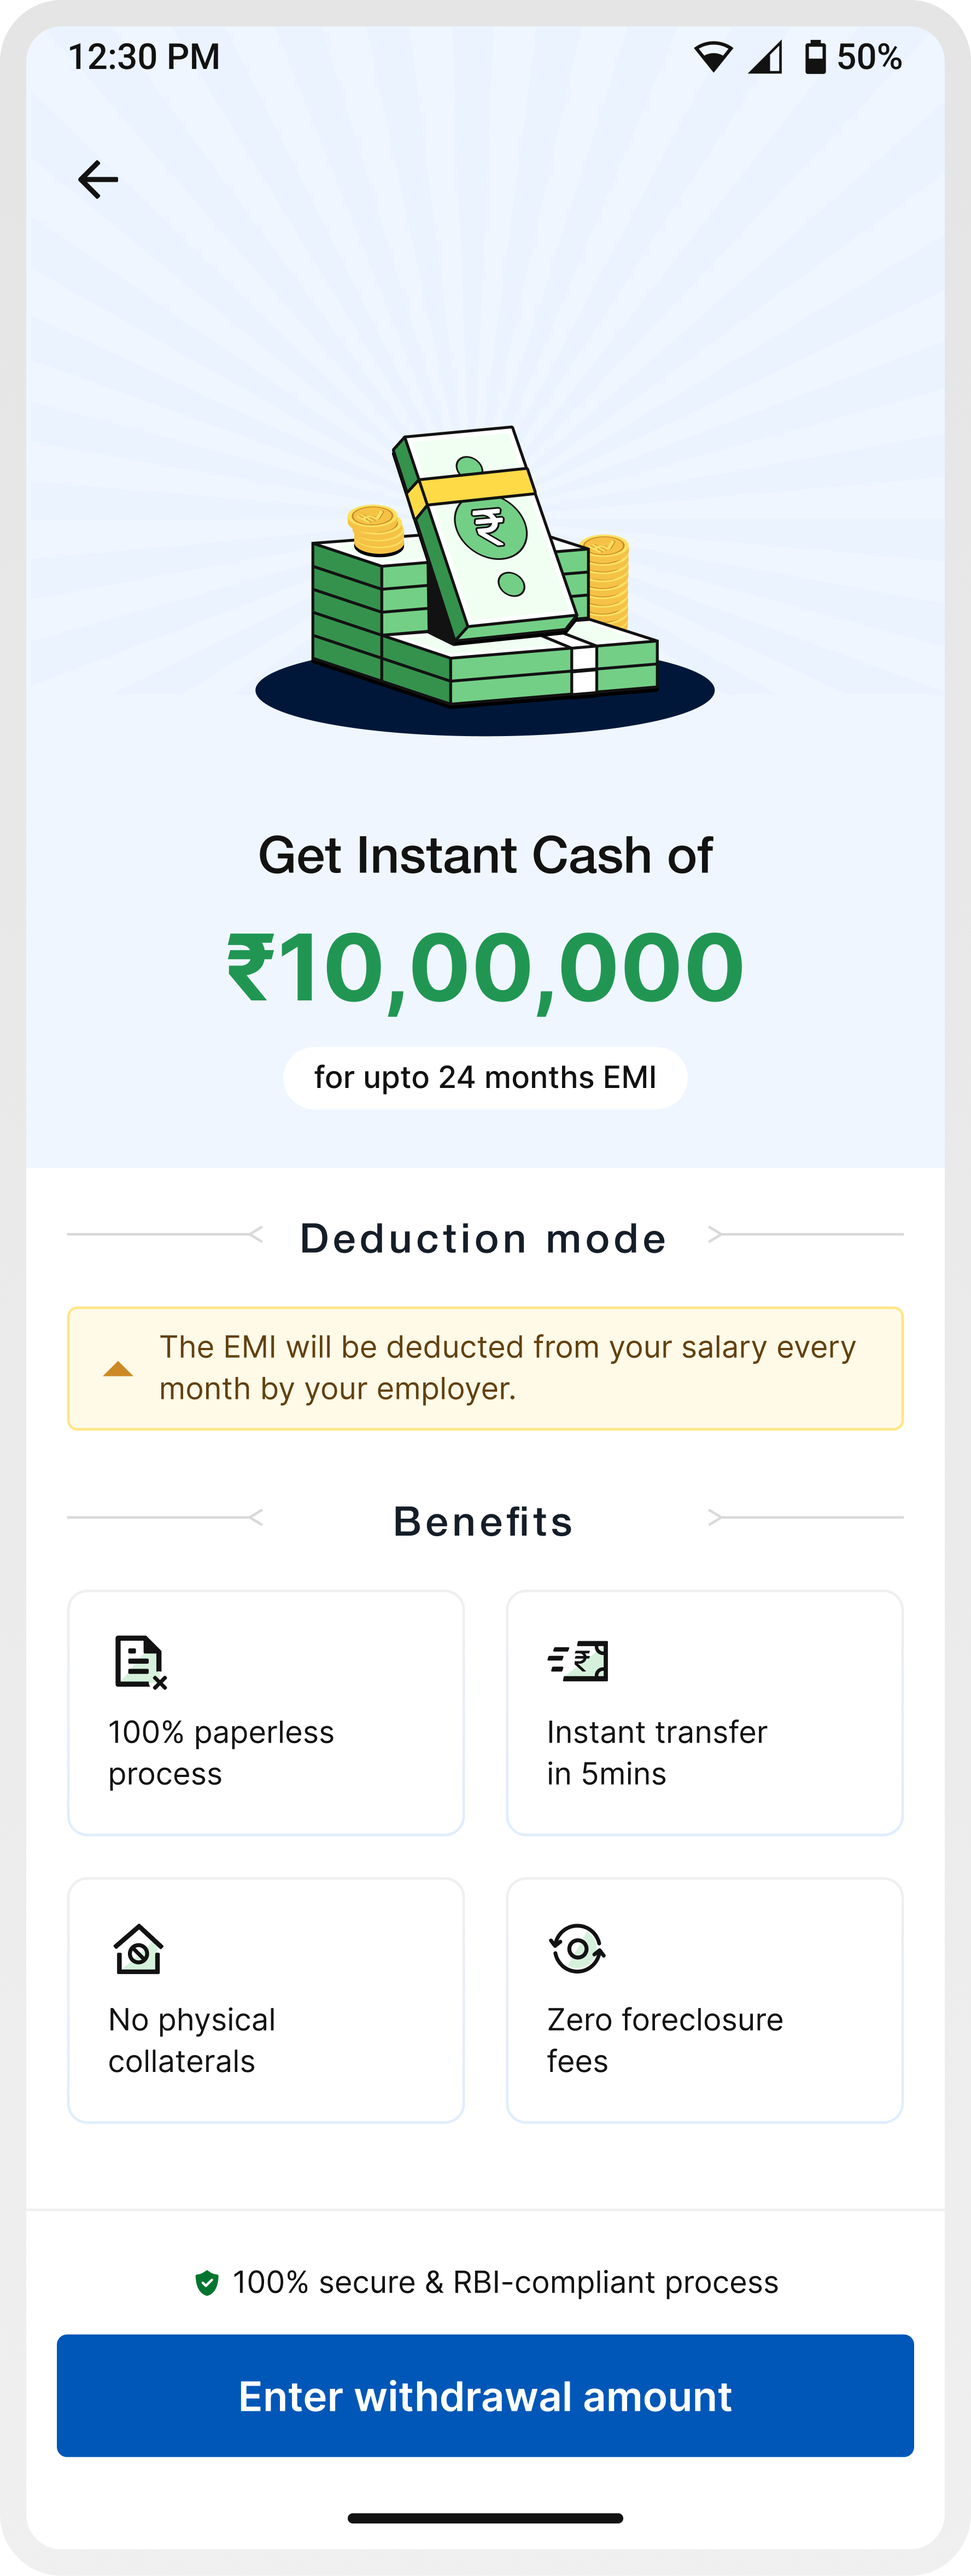
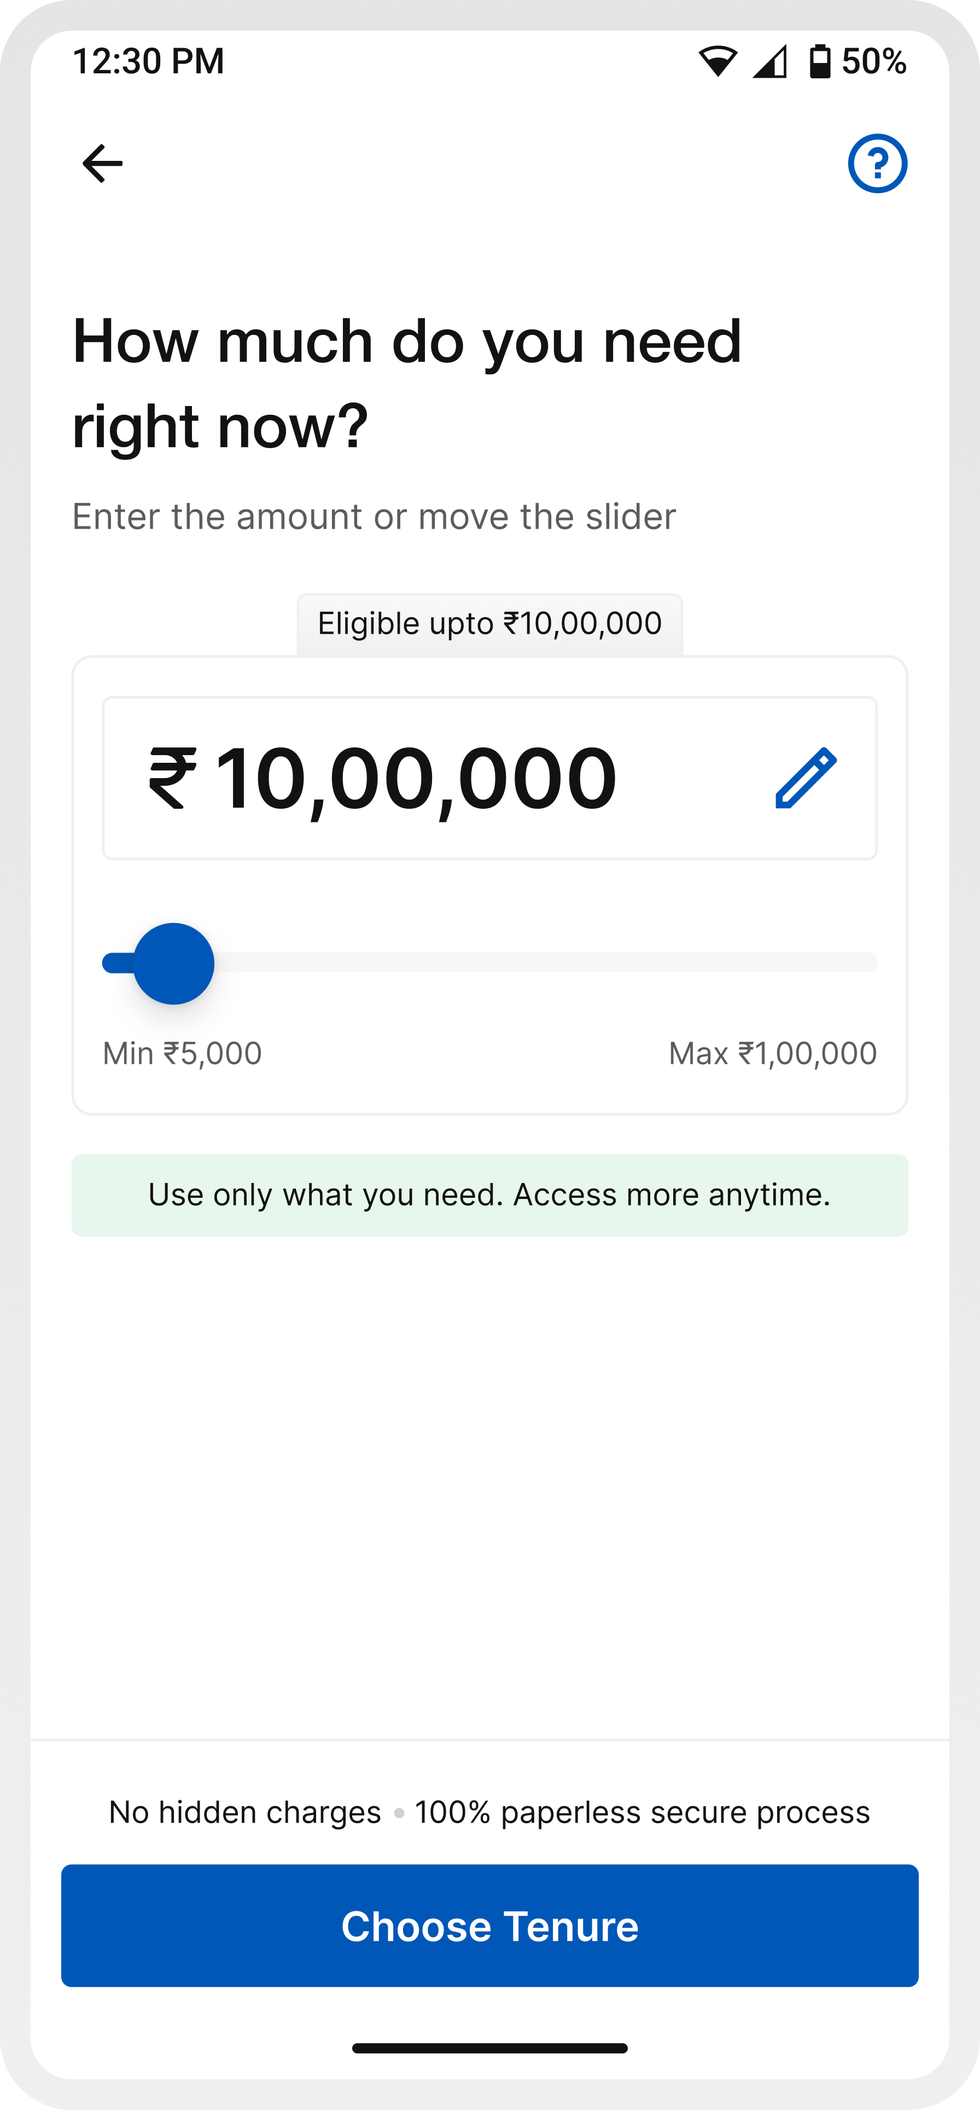
Move max amount update to lending landing screen

diff --git a/lending-case-study.html b/lending-case-study.html
@@ -711,7 +711,7 @@
                 <div class="case-doc-optimisation-step__phone-frame">
                   <img
                     class="case-doc-optimisation-step__image"
-                    src="./assets/lending-salary-advance-landing-step-v1.png"
+                    src="./assets/lending-salary-advance-landing-step-v1.png?v=20260623-v2"
                     alt="Salary advance landing page showing amount, benefits, deduction mode, and withdrawal CTA"
                   />
                 </div>
@@ -790,7 +790,7 @@
                 <div class="case-doc-optimisation-compare__frame case-doc-optimisation-compare__frame--new">
                   <img
                     class="case-doc-optimisation-compare__image"
-                    src="./assets/lending-enter-amount-new-v1.png?v=20260623-v2"
+                    src="./assets/lending-enter-amount-new-v1.png"
                     alt="Redesigned enter amount screen with clearer amount entry, slider, and primary CTA"
                   />
                 </div>
